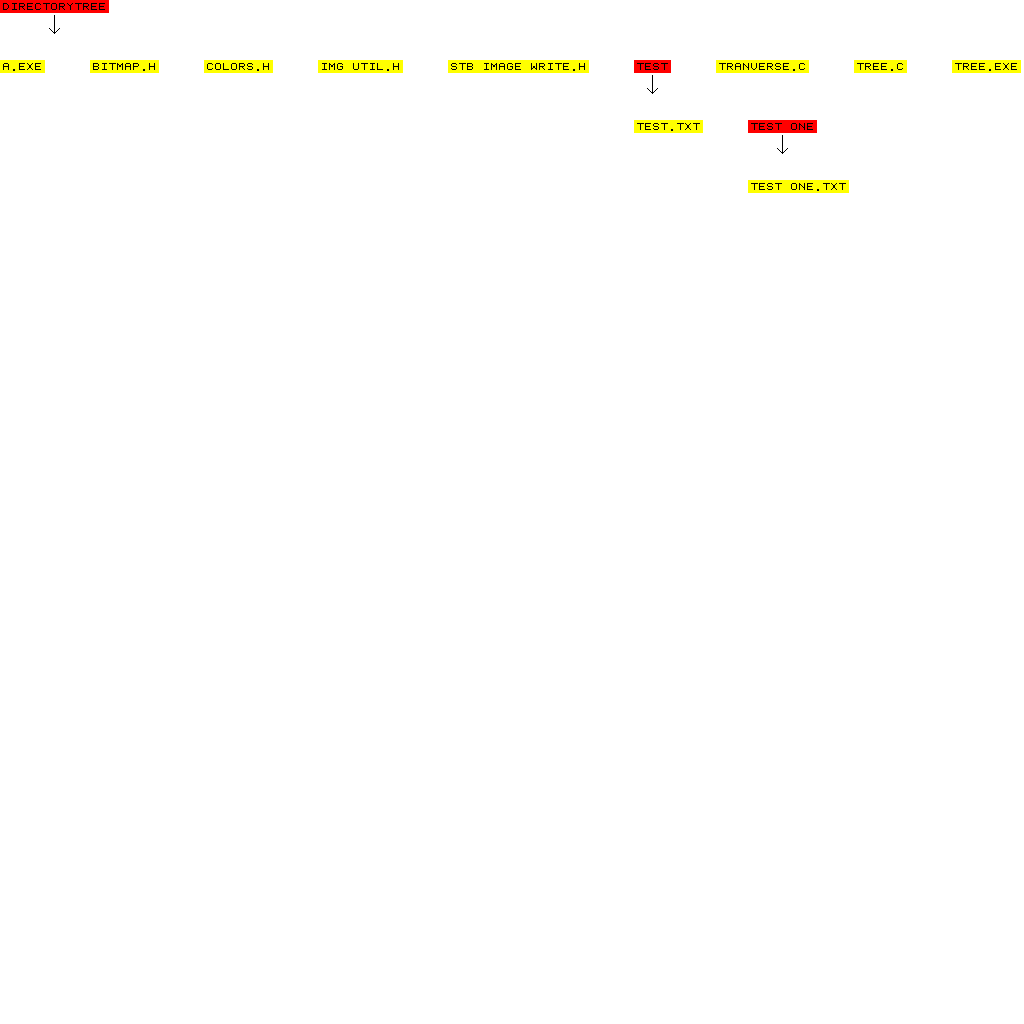
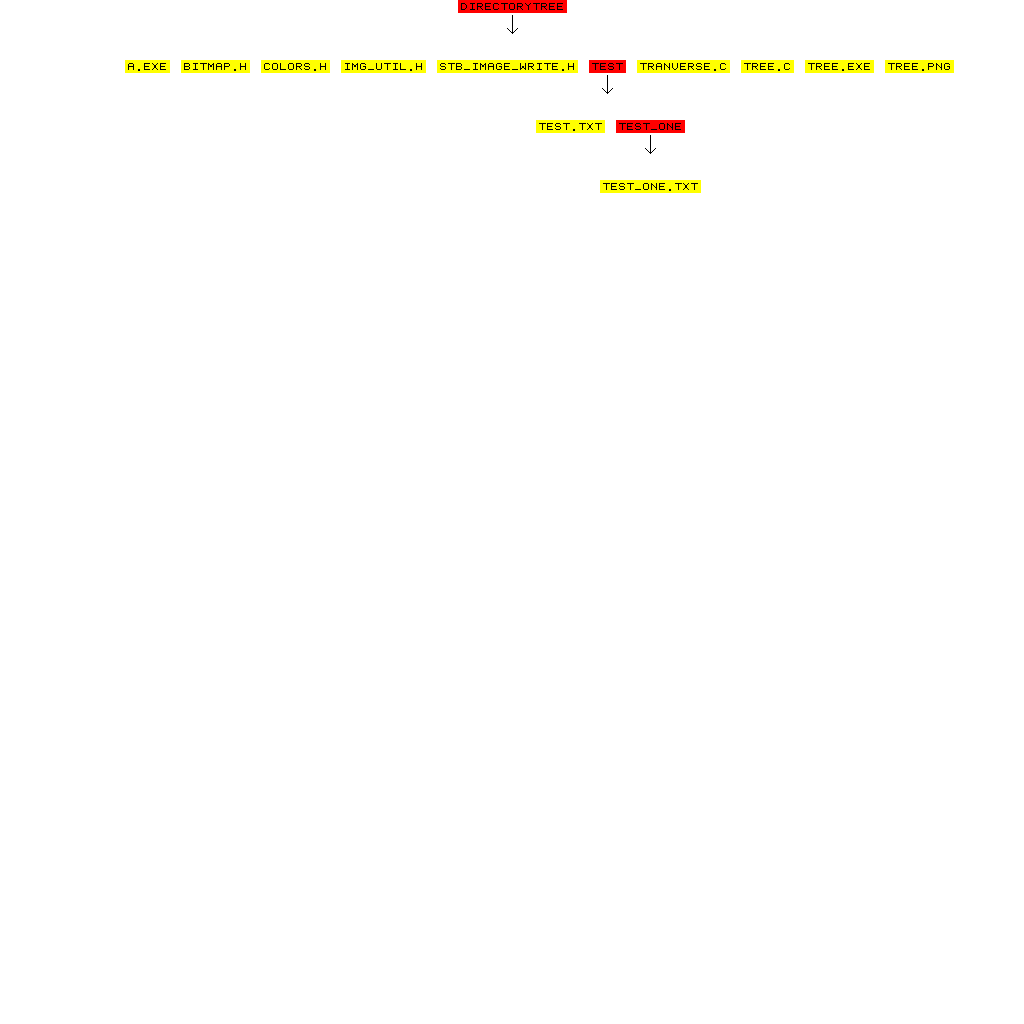
creates png image that looks more like a tree. Left debug outputs

diff --git a/tranverse.c b/tranverse.c
@@ -7,6 +7,7 @@
 #include "img_util.h"
 
 #define IMG_WIDTH 1024
+#define IMG_HEIGTH 1024
 
 typedef enum
 {
@@ -22,7 +23,19 @@ struct Node
     Node *sibling;
     int child_cnt;
     NODE_TYPE type;
+    int children_name_len;
 };
+
+typedef struct
+{
+    int parent_cnt;
+} TreeData;
+
+const char *basename(const char *path)
+{
+    const char *p = strrchr(path, '\\');
+    return p ? p + 1 : path;
+}
 
 Node *new_node(char *name, NODE_TYPE type)
 {
@@ -44,8 +57,8 @@ Node *new_node(char *name, NODE_TYPE type)
     new->child = NULL;
     new->sibling = NULL;
     new->child_cnt = 0;
+    new->children_name_len = 0;
     new->type = type;
-
     return new;
 }
 
@@ -57,11 +70,9 @@ void add_child(Node *parent, Node *child)
     if (!parent->child)
     {
         parent->child = child;
-        parent->child_cnt++;
     }
     else
     {
-        parent->child_cnt++;
         Node *cur = parent->child;
         while (cur->sibling)
         {
@@ -69,9 +80,12 @@ void add_child(Node *parent, Node *child)
         }
         cur->sibling = child;
     }
+
+    parent->child_cnt++;
+    parent->children_name_len += strlen(child->name);
 }
 
-void tranverse(const char *start_path, Node *root)
+void tranverse(const char *start_path, Node *root, TreeData *tree_data)
 {
     WIN32_FIND_DATA d;
     HANDLE h;
@@ -89,6 +103,12 @@ void tranverse(const char *start_path, Node *root)
 
     do
     {
+        // skip . files
+        if (d.cFileName[0] == '.')
+        {
+            continue;
+        }
+
         // Create new parent
         if (d.dwFileAttributes & FILE_ATTRIBUTE_DIRECTORY)
         {
@@ -96,11 +116,11 @@ void tranverse(const char *start_path, Node *root)
             if (strcmp(d.cFileName, ".") != 0 &&
                 strcmp(d.cFileName, "..") != 0)
             {
-
                 snprintf(next, sizeof(next), "%s\\%s", start_path, d.cFileName);
                 Node *new_root = new_node(d.cFileName, PARENT);
+                tree_data->parent_cnt++;
                 add_child(root, new_root);
-                tranverse(next, new_root);
+                tranverse(next, new_root, tree_data);
                 SetCurrentDirectory("..");
             }
         }
@@ -161,74 +181,131 @@ void to_uppercase(char *s)
 
 void create_tree(
     Node *n, unsigned char *img,
-    int x, int y)
+    int x, int y,
+    int max_needed_heigth,
+    int scale, int internal_padd, int gap, int arrow_length, int lvl)
 {
     if (!n)
     {
         return;
     }
 
-    int scale = 1;
-    int padd = 3;
-    int arrow_length = 20;
+    int next_level_expected_width = -1;
+    int middle = -1;
+    int start_children = -1;
 
     int title_size = (int)strlen(n->name);
     // -1 -> whitespace on the bitmap
-    int rw = BITMAP_SIZE * title_size * scale - 1 + padd * 2;
-    int rh = BITMAP_SIZE - 1 + padd * 2;
+    int rw = BITMAP_SIZE * title_size * scale - 1 + internal_padd * 2;
+    int rh = BITMAP_SIZE - 1 + internal_padd * 2;
 
     // int wx = x - rw / 2;
     to_uppercase(n->name);
 
     if (n->type == PARENT)
     {
+        // HANDLE ROOT
+        if (x == IMG_WIDTH / 2)
+        {
+            x = x - rw / 2;
+        }
         fill_rect(img, IMG_WIDTH, x, y, rw, rh, COLOR_RED);
-        draw_text_scale(img, IMG_WIDTH, x + padd, y + padd, n->name, scale);
+        draw_text_scale(img, IMG_WIDTH, x + internal_padd, y + internal_padd, n->name, scale);
         draw_arrow(img,
                    IMG_WIDTH, x + rw / 2, y + rh + 2, x + rw / 2, y + rh + arrow_length);
+
+        next_level_expected_width =
+            n->children_name_len * BITMAP_SIZE * scale +
+            ((internal_padd * 2) * n->child_cnt) - n->child_cnt + gap * (n->child_cnt - 1);
+        middle = x + rw / 2;
+        start_children = middle - next_level_expected_width / 2;
     }
     else
     {
         fill_rect(img, IMG_WIDTH, x, y, rw, rh, COLOR_YELLOW);
-        draw_text_scale(img, IMG_WIDTH, x + padd, y + padd, n->name, scale);
+        draw_text_scale(img, IMG_WIDTH, x + internal_padd, y + internal_padd, n->name, scale);
     }
 
-    create_tree(n->child, img, x, y + arrow_length + 20 + 20);
-    create_tree(n->sibling, img, x + title_size * BITMAP_SIZE + 50, y);
+    printf("(%i - %s): start_children at: %i, parent at: %i\n", lvl, n->name, start_children, x);
+
+    create_tree(
+        n->child, img,
+        start_children, y + arrow_length + 20 + 20,
+        max_needed_heigth,
+        scale, internal_padd, gap, arrow_length, lvl + 1);
+    
+    int next_sibling_pos = x + rw + internal_padd * 2 + gap;
+    create_tree(
+        n->sibling, img,
+        next_sibling_pos, y,
+        max_needed_heigth,
+        scale, internal_padd, gap, arrow_length, lvl);
+}
+
+void prepare_tree(Node *root, TreeData tree_data, unsigned char *img)
+{
+    if (img == NULL || root == NULL)
+    {
+        fprintf(stderr, "ERROR: NULL PARAMETERS");
+        return;
+    }
+
+    // white background
+    for (int i = 0; i < IMG_WIDTH * IMG_HEIGTH * 3; i++)
+    {
+        img[i] = 255;
+    }
+
+    int scale = 1;
+    int internal_padd = 3;
+    int arrow_length = 20;
+    int gap = 5;
+
+    int max_needed_height = tree_data.parent_cnt * BITMAP_SIZE * scale + ((internal_padd * 2) * tree_data.parent_cnt) - tree_data.parent_cnt + gap * (tree_data.parent_cnt - 1);
+    //  resize arrow acording to gap
+    create_tree(root, img, IMG_WIDTH / 2, 0, max_needed_height, scale, internal_padd, gap, arrow_length, 0);
 }
 
 int main()
 {
     const char *start_file = "C:\\Users\\marco\\Programming\\DirectoryTree";
 
-    Node *root = new_node("DirectoryTree", PARENT);
+    Node *root = NULL;
+    TreeData tree_data = {.parent_cnt = 0};
+    // save first parent
+    if (root == NULL)
+    {
+        char name[512];
+        const char *base = basename(start_file);
+        strcpy(name, base);
+        root = new_node(name, PARENT);
+        tree_data.parent_cnt++;
+    }
 
-    tranverse(start_file, root);
+    tranverse(start_file, root, &tree_data);
 
     printf("\n\nTREE\n\n");
+    printf("tree_data: %i\n", tree_data);
     walk(root, 0, false);
 
     int w = IMG_WIDTH;
-    int h = IMG_WIDTH;
-    unsigned char *img = malloc(w * h * 3);
+    int h = IMG_HEIGTH;
+
+    unsigned char *img = malloc(IMG_WIDTH * IMG_HEIGTH * 3);
     if (img == NULL)
     {
         fprintf(stderr, "ERROR: OUT OF MEMORY FOR IMG");
-        return 1;
     }
 
-    for (int i = 0; i < w * h * 3; i++)
-    {
-        img[i] = 255;
-    }
-
-    create_tree(root, img, 0, 0);
+    prepare_tree(root, tree_data, img);
 
     int ok = stbi_write_png("C:\\Users\\marco\\Programming\\DirectoryTree\\tree.png", w, h, 3, img, w * 3);
     if (!ok)
     {
         fprintf(stderr, "ERROR: FAILED TO WRITE PNG\n");
     }
+
+    free(img);
 
     return 0;
 }
